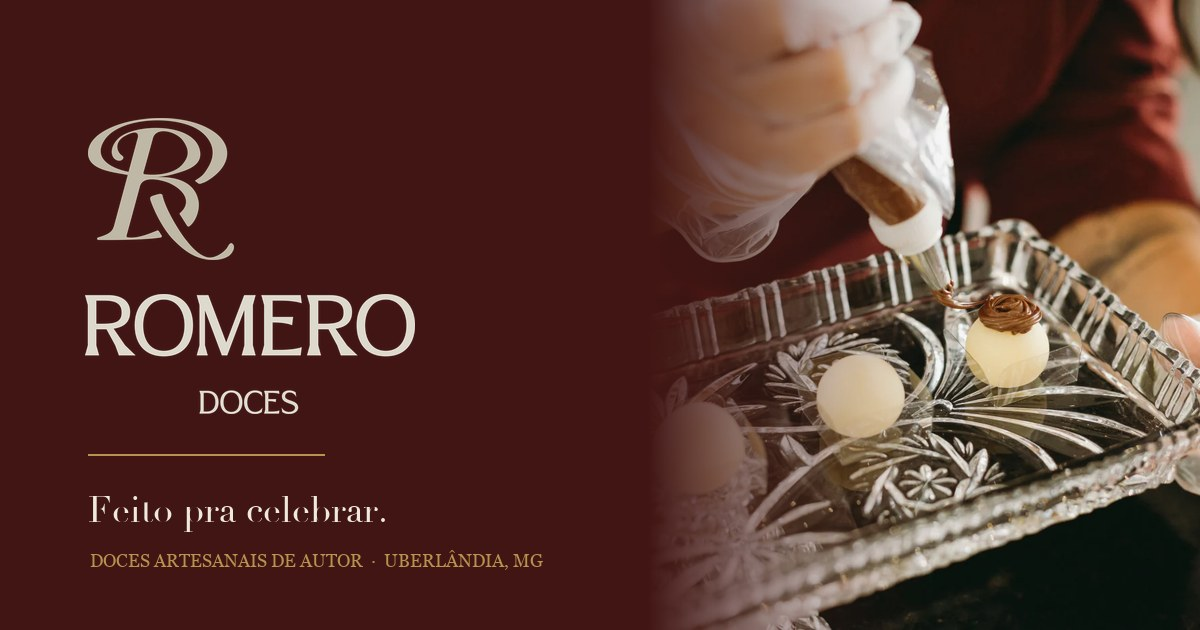
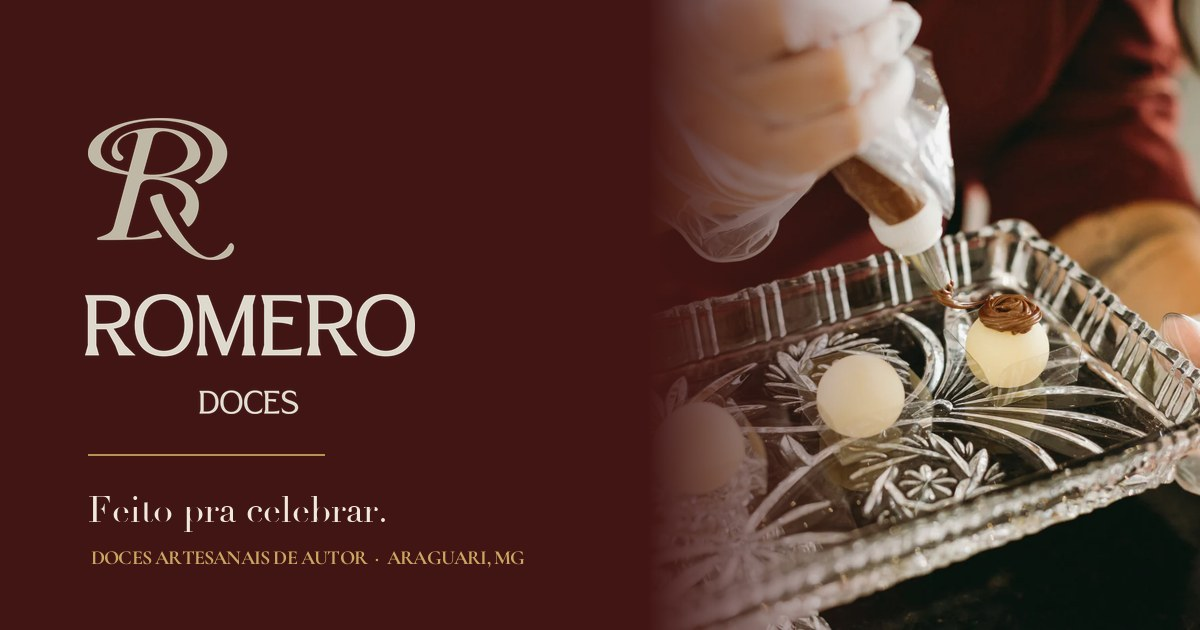
Cidade: tudo em Araguari/MG
Títulos, descrições, Open Graph, cardápio e a imagem de compartilhamento
falavam em Uberlândia; o ateliê é em Araguari.

Changed region(s): [[0.0617, 0.8746, 0.4625, 0.9048]]

diff --git a/Home.dc.html b/Home.dc.html
@@ -3,8 +3,8 @@
 <head>
 <meta charset="utf-8">
 <meta name="viewport" content="width=device-width, initial-scale=1">
-<title>Romero Doces — Brigadeiros gourmet em Uberlândia</title>
-<meta name="description" content="Doces artesanais de autor para casamentos, aniversários e eventos em Uberlândia. Brigadeiros gourmet, doces finos e personalizados. Peça pelo WhatsApp.">
+<title>Romero Doces — Brigadeiros gourmet em Araguari</title>
+<meta name="description" content="Doces artesanais de autor para casamentos, aniversários e eventos em Araguari. Brigadeiros gourmet, doces finos e personalizados. Peça pelo WhatsApp.">
 <link rel="canonical" href="https://victorsntz.github.io/romerodocessite/Home.dc.html">
 <meta name="robots" content="noindex, follow">
 <meta name="theme-color" content="#411513">
@@ -12,8 +12,8 @@
 <meta property="og:type" content="website">
 <meta property="og:site_name" content="Romero Doces">
 <meta property="og:locale" content="pt_BR">
-<meta property="og:title" content="Romero Doces — Brigadeiros gourmet em Uberlândia">
-<meta property="og:description" content="Doces artesanais de autor para casamentos, aniversários e eventos em Uberlândia. Brigadeiros gourmet, doces finos e personalizados. Peça pelo WhatsApp.">
+<meta property="og:title" content="Romero Doces — Brigadeiros gourmet em Araguari">
+<meta property="og:description" content="Doces artesanais de autor para casamentos, aniversários e eventos em Araguari. Brigadeiros gourmet, doces finos e personalizados. Peça pelo WhatsApp.">
 <meta property="og:url" content="https://victorsntz.github.io/romerodocessite/Home.dc.html">
 <meta property="og:image" content="https://victorsntz.github.io/romerodocessite/og-preview.jpg">
 <meta property="og:image:secure_url" content="https://victorsntz.github.io/romerodocessite/og-preview.jpg">
@@ -23,8 +23,8 @@
 <meta property="og:image:alt" content="Romero Doces — doces artesanais de autor">
 
 <meta name="twitter:card" content="summary_large_image">
-<meta name="twitter:title" content="Romero Doces — Brigadeiros gourmet em Uberlândia">
-<meta name="twitter:description" content="Doces artesanais de autor para casamentos, aniversários e eventos em Uberlândia. Brigadeiros gourmet, doces finos e personalizados. Peça pelo WhatsApp.">
+<meta name="twitter:title" content="Romero Doces — Brigadeiros gourmet em Araguari">
+<meta name="twitter:description" content="Doces artesanais de autor para casamentos, aniversários e eventos em Araguari. Brigadeiros gourmet, doces finos e personalizados. Peça pelo WhatsApp.">
 <meta name="twitter:image" content="https://victorsntz.github.io/romerodocessite/og-preview.jpg">
 
 <link rel="icon" type="image/png" sizes="32x32" href="favicon-32.png">
@@ -46,7 +46,7 @@ document.addEventListener('dragstart', function (e) {
 <x-dc>
 <helmet>
 <meta name="viewport" content="width=device-width, initial-scale=1">
-<title>Romero Doces — Brigadeiros gourmet em Uberlândia</title>
+<title>Romero Doces — Brigadeiros gourmet em Araguari</title>
 <link rel="preload" as="image" href="assets/logos/logo-header.webp">
 <link rel="preload" as="image" href="assets/fotos/bia40.webp">
 <link rel="preload" as="image" href="assets/fotos/bia50.webp">

diff --git a/index.html b/index.html
@@ -2,8 +2,8 @@
 <html lang="pt-BR">
 <head>
 <meta charset="utf-8">
-<title>Romero Doces — Brigadeiros gourmet em Uberlândia</title>
-<meta name="description" content="Doces artesanais de autor para casamentos, aniversários e eventos em Uberlândia. Brigadeiros gourmet, doces finos e personalizados. Peça pelo WhatsApp.">
+<title>Romero Doces — Brigadeiros gourmet em Araguari</title>
+<meta name="description" content="Doces artesanais de autor para casamentos, aniversários e eventos em Araguari. Brigadeiros gourmet, doces finos e personalizados. Peça pelo WhatsApp.">
 <link rel="canonical" href="https://victorsntz.github.io/romerodocessite/">
 <meta name="robots" content="noindex, follow">
 <meta name="theme-color" content="#411513">
@@ -11,8 +11,8 @@
 <meta property="og:type" content="website">
 <meta property="og:site_name" content="Romero Doces">
 <meta property="og:locale" content="pt_BR">
-<meta property="og:title" content="Romero Doces — Brigadeiros gourmet em Uberlândia">
-<meta property="og:description" content="Doces artesanais de autor para casamentos, aniversários e eventos em Uberlândia. Brigadeiros gourmet, doces finos e personalizados. Peça pelo WhatsApp.">
+<meta property="og:title" content="Romero Doces — Brigadeiros gourmet em Araguari">
+<meta property="og:description" content="Doces artesanais de autor para casamentos, aniversários e eventos em Araguari. Brigadeiros gourmet, doces finos e personalizados. Peça pelo WhatsApp.">
 <meta property="og:url" content="https://victorsntz.github.io/romerodocessite/">
 <meta property="og:image" content="https://victorsntz.github.io/romerodocessite/og-preview.jpg">
 <meta property="og:image:secure_url" content="https://victorsntz.github.io/romerodocessite/og-preview.jpg">
@@ -22,8 +22,8 @@
 <meta property="og:image:alt" content="Romero Doces — doces artesanais de autor">
 
 <meta name="twitter:card" content="summary_large_image">
-<meta name="twitter:title" content="Romero Doces — Brigadeiros gourmet em Uberlândia">
-<meta name="twitter:description" content="Doces artesanais de autor para casamentos, aniversários e eventos em Uberlândia. Brigadeiros gourmet, doces finos e personalizados. Peça pelo WhatsApp.">
+<meta name="twitter:title" content="Romero Doces — Brigadeiros gourmet em Araguari">
+<meta name="twitter:description" content="Doces artesanais de autor para casamentos, aniversários e eventos em Araguari. Brigadeiros gourmet, doces finos e personalizados. Peça pelo WhatsApp.">
 <meta name="twitter:image" content="https://victorsntz.github.io/romerodocessite/og-preview.jpg">
 
 <link rel="icon" type="image/png" sizes="32x32" href="favicon-32.png">

diff --git a/Degustacao.dc.html b/Degustacao.dc.html
@@ -4,7 +4,7 @@
 <meta charset="utf-8">
 <meta name="viewport" content="width=device-width, initial-scale=1">
 <title>Caixa degustação de brigadeiros — Romero Doces</title>
-<meta name="description" content="Prove os doces antes de fechar o cardápio do seu evento. Caixa degustação com 20 brigadeiros gourmet e doces finos, acompanha caixa premium e sacola. Uberlândia, MG.">
+<meta name="description" content="Prove os doces antes de fechar o cardápio do seu evento. Caixa degustação com 20 brigadeiros gourmet e doces finos, acompanha caixa premium e sacola. Araguari, MG.">
 <link rel="canonical" href="https://victorsntz.github.io/romerodocessite/Degustacao.dc.html">
 <meta name="robots" content="noindex, follow">
 <meta name="theme-color" content="#411513">
@@ -13,7 +13,7 @@
 <meta property="og:site_name" content="Romero Doces">
 <meta property="og:locale" content="pt_BR">
 <meta property="og:title" content="Caixa degustação de brigadeiros — Romero Doces">
-<meta property="og:description" content="Prove os doces antes de fechar o cardápio do seu evento. Caixa degustação com 20 brigadeiros gourmet e doces finos, acompanha caixa premium e sacola. Uberlândia, MG.">
+<meta property="og:description" content="Prove os doces antes de fechar o cardápio do seu evento. Caixa degustação com 20 brigadeiros gourmet e doces finos, acompanha caixa premium e sacola. Araguari, MG.">
 <meta property="og:url" content="https://victorsntz.github.io/romerodocessite/Degustacao.dc.html">
 <meta property="og:image" content="https://victorsntz.github.io/romerodocessite/og-preview.jpg">
 <meta property="og:image:secure_url" content="https://victorsntz.github.io/romerodocessite/og-preview.jpg">
@@ -24,7 +24,7 @@
 
 <meta name="twitter:card" content="summary_large_image">
 <meta name="twitter:title" content="Caixa degustação de brigadeiros — Romero Doces">
-<meta name="twitter:description" content="Prove os doces antes de fechar o cardápio do seu evento. Caixa degustação com 20 brigadeiros gourmet e doces finos, acompanha caixa premium e sacola. Uberlândia, MG.">
+<meta name="twitter:description" content="Prove os doces antes de fechar o cardápio do seu evento. Caixa degustação com 20 brigadeiros gourmet e doces finos, acompanha caixa premium e sacola. Araguari, MG.">
 <meta name="twitter:image" content="https://victorsntz.github.io/romerodocessite/og-preview.jpg">
 
 <link rel="icon" type="image/png" sizes="32x32" href="favicon-32.png">

diff --git a/Doces.dc.html b/Doces.dc.html
@@ -4,7 +4,7 @@
 <meta charset="utf-8">
 <meta name="viewport" content="width=device-width, initial-scale=1">
 <title>Brigadeiros gourmet e doces finos — Romero Doces</title>
-<meta name="description" content="Cardápio completo: brigadeiros tradicionais, especiais, linha premium, doces finos e florais. Feitos à mão com chocolate nobre em Uberlândia, MG.">
+<meta name="description" content="Cardápio completo: brigadeiros tradicionais, especiais, linha premium, doces finos e florais. Feitos à mão com chocolate nobre em Araguari, MG.">
 <link rel="canonical" href="https://victorsntz.github.io/romerodocessite/Doces.dc.html">
 <meta name="robots" content="noindex, follow">
 <meta name="theme-color" content="#411513">
@@ -13,7 +13,7 @@
 <meta property="og:site_name" content="Romero Doces">
 <meta property="og:locale" content="pt_BR">
 <meta property="og:title" content="Brigadeiros gourmet e doces finos — Romero Doces">
-<meta property="og:description" content="Cardápio completo: brigadeiros tradicionais, especiais, linha premium, doces finos e florais. Feitos à mão com chocolate nobre em Uberlândia, MG.">
+<meta property="og:description" content="Cardápio completo: brigadeiros tradicionais, especiais, linha premium, doces finos e florais. Feitos à mão com chocolate nobre em Araguari, MG.">
 <meta property="og:url" content="https://victorsntz.github.io/romerodocessite/Doces.dc.html">
 <meta property="og:image" content="https://victorsntz.github.io/romerodocessite/og-preview.jpg">
 <meta property="og:image:secure_url" content="https://victorsntz.github.io/romerodocessite/og-preview.jpg">
@@ -24,7 +24,7 @@
 
 <meta name="twitter:card" content="summary_large_image">
 <meta name="twitter:title" content="Brigadeiros gourmet e doces finos — Romero Doces">
-<meta name="twitter:description" content="Cardápio completo: brigadeiros tradicionais, especiais, linha premium, doces finos e florais. Feitos à mão com chocolate nobre em Uberlândia, MG.">
+<meta name="twitter:description" content="Cardápio completo: brigadeiros tradicionais, especiais, linha premium, doces finos e florais. Feitos à mão com chocolate nobre em Araguari, MG.">
 <meta name="twitter:image" content="https://victorsntz.github.io/romerodocessite/og-preview.jpg">
 
 <link rel="icon" type="image/png" sizes="32x32" href="favicon-32.png">

diff --git a/Contato.dc.html b/Contato.dc.html
@@ -4,7 +4,7 @@
 <meta charset="utf-8">
 <meta name="viewport" content="width=device-width, initial-scale=1">
 <title>Contato e encomendas — Romero Doces</title>
-<meta name="description" content="Faça sua encomenda pelo WhatsApp (34) 98408-8480. Atendimento personalizado para casamentos, aniversários e eventos corporativos em Uberlândia, MG.">
+<meta name="description" content="Faça sua encomenda pelo WhatsApp (34) 98408-8480. Atendimento personalizado para casamentos, aniversários e eventos corporativos em Araguari, MG.">
 <link rel="canonical" href="https://victorsntz.github.io/romerodocessite/Contato.dc.html">
 <meta name="robots" content="noindex, follow">
 <meta name="theme-color" content="#411513">
@@ -13,7 +13,7 @@
 <meta property="og:site_name" content="Romero Doces">
 <meta property="og:locale" content="pt_BR">
 <meta property="og:title" content="Contato e encomendas — Romero Doces">
-<meta property="og:description" content="Faça sua encomenda pelo WhatsApp (34) 98408-8480. Atendimento personalizado para casamentos, aniversários e eventos corporativos em Uberlândia, MG.">
+<meta property="og:description" content="Faça sua encomenda pelo WhatsApp (34) 98408-8480. Atendimento personalizado para casamentos, aniversários e eventos corporativos em Araguari, MG.">
 <meta property="og:url" content="https://victorsntz.github.io/romerodocessite/Contato.dc.html">
 <meta property="og:image" content="https://victorsntz.github.io/romerodocessite/og-preview.jpg">
 <meta property="og:image:secure_url" content="https://victorsntz.github.io/romerodocessite/og-preview.jpg">
@@ -24,7 +24,7 @@
 
 <meta name="twitter:card" content="summary_large_image">
 <meta name="twitter:title" content="Contato e encomendas — Romero Doces">
-<meta name="twitter:description" content="Faça sua encomenda pelo WhatsApp (34) 98408-8480. Atendimento personalizado para casamentos, aniversários e eventos corporativos em Uberlândia, MG.">
+<meta name="twitter:description" content="Faça sua encomenda pelo WhatsApp (34) 98408-8480. Atendimento personalizado para casamentos, aniversários e eventos corporativos em Araguari, MG.">
 <meta name="twitter:image" content="https://victorsntz.github.io/romerodocessite/og-preview.jpg">
 
 <link rel="icon" type="image/png" sizes="32x32" href="favicon-32.png">

diff --git a/Sobre.dc.html b/Sobre.dc.html
@@ -4,7 +4,7 @@
 <meta charset="utf-8">
 <meta name="viewport" content="width=device-width, initial-scale=1">
 <title>Sobre a Romero Doces — Beatriz Romero</title>
-<meta name="description" content="A história da Beatriz Romero, nutricionista que virou confeiteira. Conheça o ateliê de doces artesanais de autor em Uberlândia, Minas Gerais.">
+<meta name="description" content="A história da Beatriz Romero, nutricionista que virou confeiteira. Conheça o ateliê de doces artesanais de autor em Araguari, Minas Gerais.">
 <link rel="canonical" href="https://victorsntz.github.io/romerodocessite/Sobre.dc.html">
 <meta name="robots" content="noindex, follow">
 <meta name="theme-color" content="#411513">
@@ -13,7 +13,7 @@
 <meta property="og:site_name" content="Romero Doces">
 <meta property="og:locale" content="pt_BR">
 <meta property="og:title" content="Sobre a Romero Doces — Beatriz Romero">
-<meta property="og:description" content="A história da Beatriz Romero, nutricionista que virou confeiteira. Conheça o ateliê de doces artesanais de autor em Uberlândia, Minas Gerais.">
+<meta property="og:description" content="A história da Beatriz Romero, nutricionista que virou confeiteira. Conheça o ateliê de doces artesanais de autor em Araguari, Minas Gerais.">
 <meta property="og:url" content="https://victorsntz.github.io/romerodocessite/Sobre.dc.html">
 <meta property="og:image" content="https://victorsntz.github.io/romerodocessite/og-preview.jpg">
 <meta property="og:image:secure_url" content="https://victorsntz.github.io/romerodocessite/og-preview.jpg">
@@ -24,7 +24,7 @@
 
 <meta name="twitter:card" content="summary_large_image">
 <meta name="twitter:title" content="Sobre a Romero Doces — Beatriz Romero">
-<meta name="twitter:description" content="A história da Beatriz Romero, nutricionista que virou confeiteira. Conheça o ateliê de doces artesanais de autor em Uberlândia, Minas Gerais.">
+<meta name="twitter:description" content="A história da Beatriz Romero, nutricionista que virou confeiteira. Conheça o ateliê de doces artesanais de autor em Araguari, Minas Gerais.">
 <meta name="twitter:image" content="https://victorsntz.github.io/romerodocessite/og-preview.jpg">
 
 <link rel="icon" type="image/png" sizes="32x32" href="favicon-32.png">

diff --git a/cardapio-2026.html b/cardapio-2026.html
@@ -535,7 +535,7 @@
       </div>
       <div class="meta">
         <strong>Romero Doces</strong><br>
-        Uberlândia, MG<br>
+        Araguari, MG<br>
         (34) 98408-8480<br>
         <span id="orcData"></span>
       </div>
